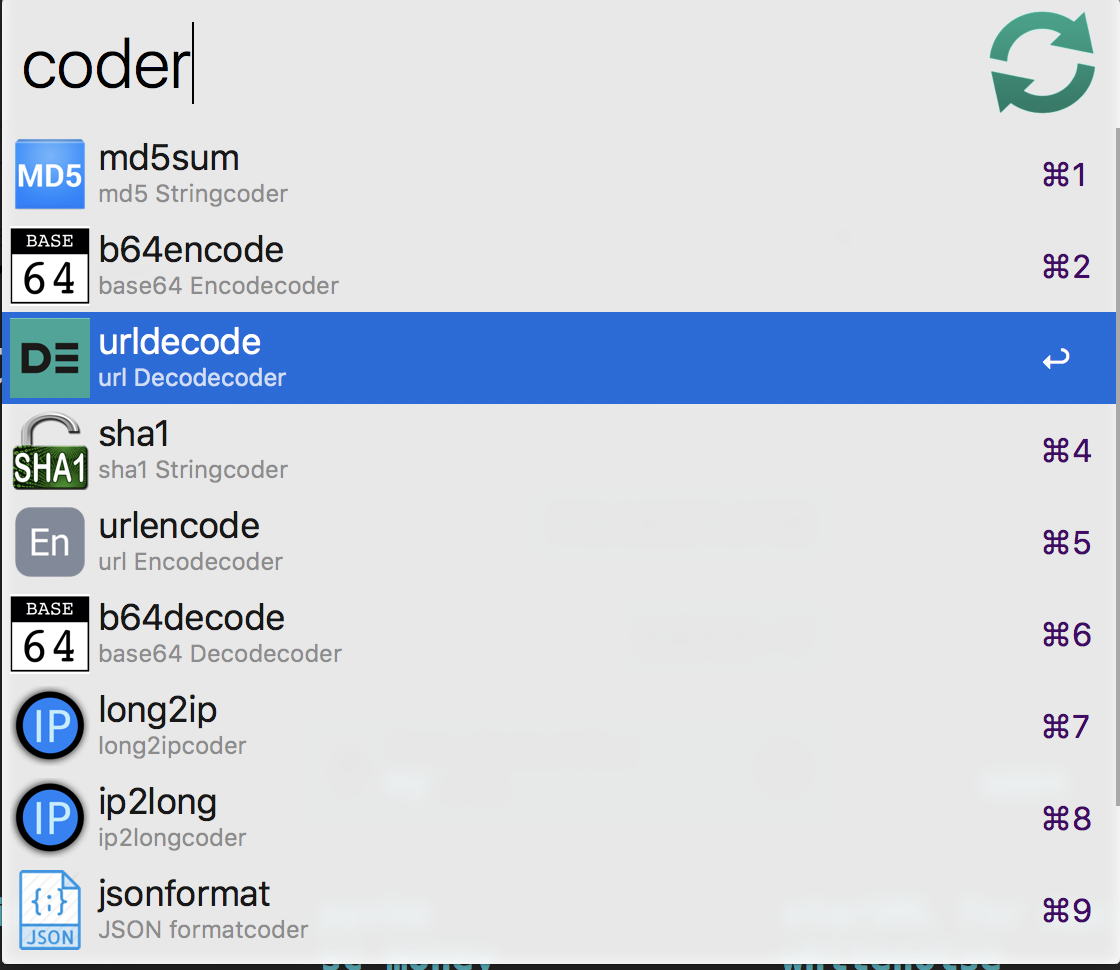
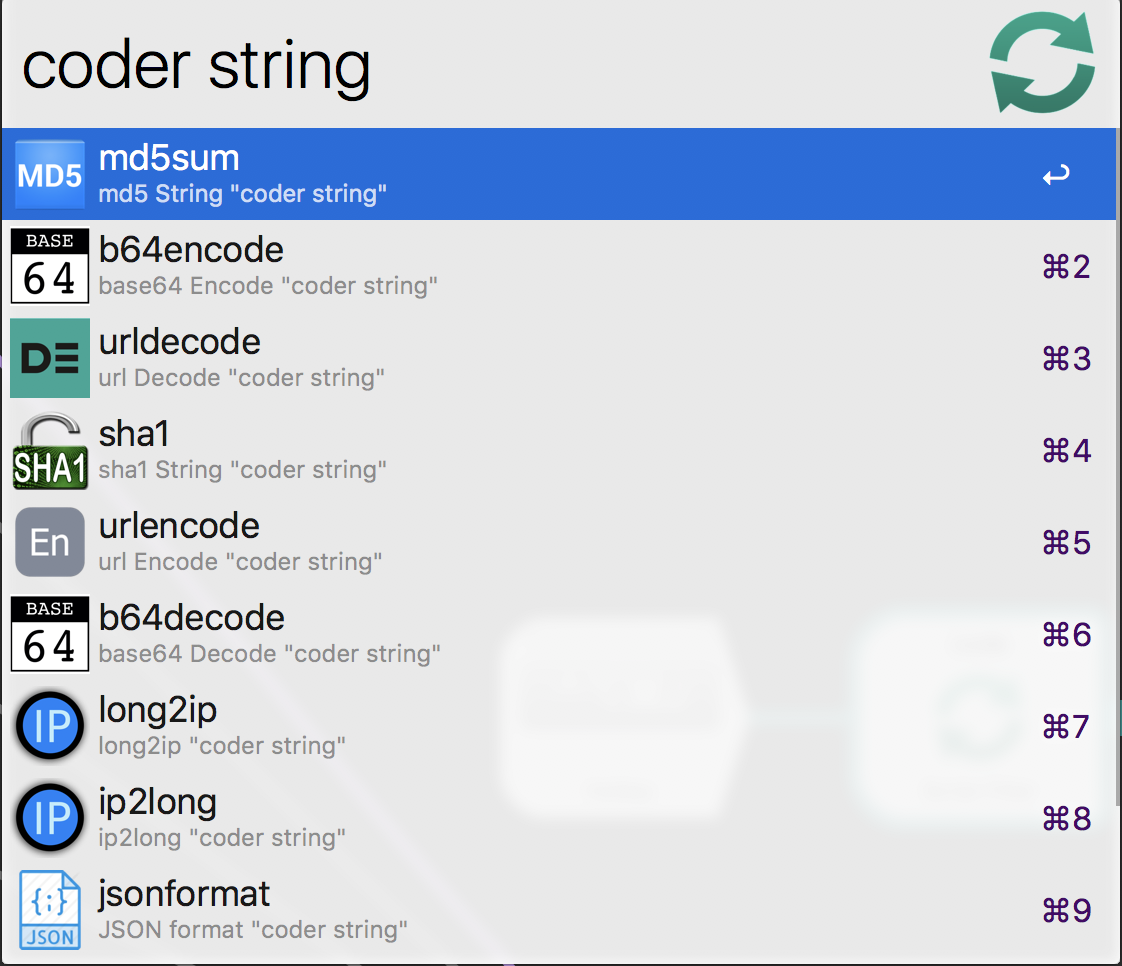
add spaces between content and tips

diff --git a/Alfred/Coder/filter.py b/Alfred/Coder/filter.py
@@ -19,7 +19,7 @@ query = '{query}'
 for idx in apis:
 	fb.add_item(
 		apis[idx]['api'],
-		subtitle=apis[idx]['title'] + query,
+		subtitle=apis[idx]['title'] + ' "' + query + '"',
 		arg='{"query":"%s","api":"%s"}' % (query, apis[idx]['api']),
 		icon=apis[idx]['icon'] +'.png'
 	)
